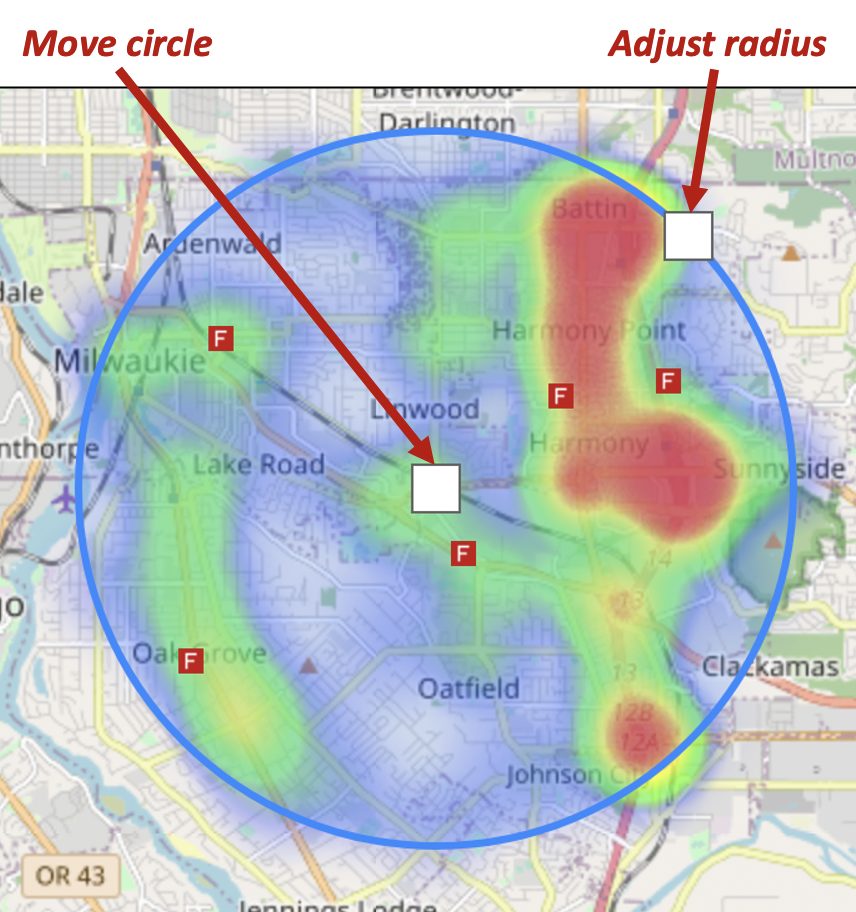
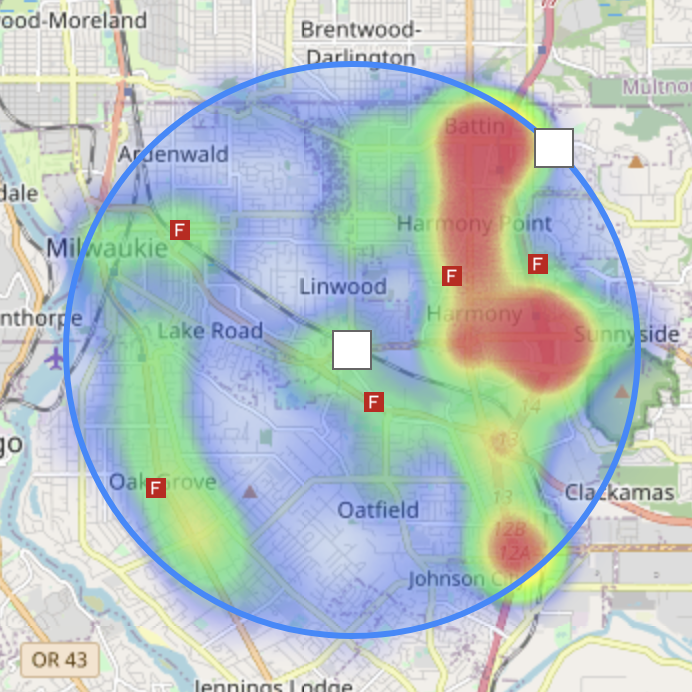
Added CSS to fit images to sidebar, reverted annotations

diff --git a/index.html b/index.html
@@ -78,7 +78,7 @@
 							This feature will allow the user to place down a movable circle with an adjustable radius.
 							Once placed the circle will restrict the incidents within the bounds of the circle providing
 							a more focused view of the heatmap to a certain geographical area.
-							<img src="./images/ex/CircleMoveAdjustEx.png" alt="Circle Move Adjust Example">
+							<img class="contain" src="./images/ex/CircleMoveAdjustEx.png" alt="Circle Move Adjust Example">
 						</p>
 						<li>
 							<h6>Adding</h6>
@@ -99,7 +99,7 @@
 								class="far fa-times-circle remove"></i>) this will reset
 							the map to before applying the area filter.
 							<br />
-							<b><Note:</b> this does not reset the date filters.
+							<b>Note:</b> removal does not reset the date filter.
 						</p>
 					</ul>
 					<li>
@@ -128,7 +128,7 @@
 								Additionally, the arrow pointing down on the text boxes can be clicked to enable
 								calendar mode.
 							</p>
-							<img src="./images/ex/DateEx.png" alt="Date Example 1">
+							<img class="contain" src="./images/ex/DateEx.png" alt="Date Example 1">
 							<p>
 								Once the upper and lower bounds are set to satisfaction it can be applied by clicking
 								the apply date filter
@@ -155,12 +155,12 @@
 					The arrow on the first column facing right can be clicked and the call can be expanded
 					to display the units which were assigned to that incident and their statuses. 
 					
-					<img src="./images/ex/DataViewEx.png" alt="Date Example 1">
+					<img class="contain" src="./images/ex/DataViewEx.png" alt="Date Example 1">
 
 					The incidents are limited by pages press the right arrow button to change to the next page 
 					and left moves backwards.
 
-					<img src="./images/ex/DataViewEx2.png" alt="Date Example 1">
+					<img class="contain" src="./images/ex/DataViewEx2.png" alt="Date Example 1">
 					
 					Dates before 2014-02-14 do not have units.
 				</p>

diff --git a/css/main.css b/css/main.css
@@ -129,3 +129,10 @@ tr.body {
     color: rgb(255, 255, 255);
     font-size: 90% !important;
 }
+
+img.contain
+{
+    max-height:300px;
+    max-width:300px;
+    object-fit:contain !important;
+}
